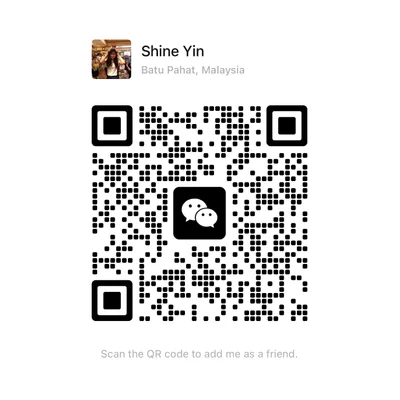
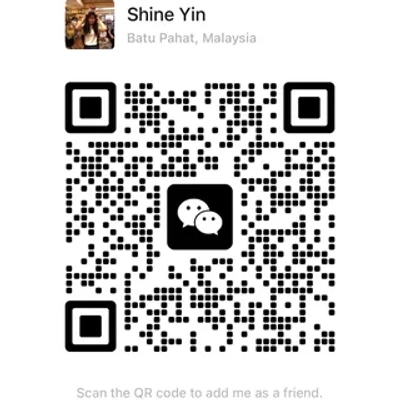
fix: new headshot, professional hero overlay, white final CTA, cropped QR
- Replaced headshot with new Gemini image (watermark cropped), renamed to
  shine-headshot.webp, deleted old shine-headshot-1200x1200.webp
- Hero reverted to teal-tinted dark overlay with dual gradient layers for
  professional depth — desaturated photo with contrast adjustment
- "Ready to help" final CTA section changed from navy-blue to white text
- WeChat QR cropped to remove excess whitespace, label set to title case
- All changes mirrored on Chinese homepage

Made-with: Cursor

diff --git a/src/app/(chinese)/zh/page.tsx b/src/app/(chinese)/zh/page.tsx
@@ -40,32 +40,33 @@ export default function ChineseHomepage() {
             src="/shine_with_schoolkids.png"
             alt="Shine Yin Teoh, speech pathologist, working with children in a school setting"
             fill
-            className="object-cover saturate-[0.85] brightness-[1.05]"
+            className="object-cover saturate-[0.8] brightness-[1.0] contrast-[0.95]"
             priority
           />
-          <div className="absolute inset-0 bg-gradient-to-r from-white/50 via-white/30 to-white/10"></div>
+          <div className="absolute inset-0 bg-gradient-to-r from-[#1A4D5C]/75 via-[#1A4D5C]/45 to-[#1A4D5C]/15"></div>
+          <div className="absolute inset-0 bg-gradient-to-b from-[#0D2B3E]/30 via-transparent to-[#0D2B3E]/20"></div>
         </div>
         
         <div className="container mx-auto px-4 relative z-10">
           <div className="max-w-2xl">
-            <h1 className="text-4xl md:text-5xl lg:text-5xl font-bold text-navy-blue mb-6 leading-[1.15] text-balance drop-shadow-[0_1px_2px_rgba(255,255,255,0.8)]">
+            <h1 className="text-4xl md:text-5xl lg:text-5xl font-bold text-white mb-6 leading-[1.15] text-balance drop-shadow-lg">
               悉尼言语治疗师
             </h1>
-            <p className="text-lg md:text-xl text-charcoal mb-10 leading-relaxed font-medium drop-shadow-[0_1px_1px_rgba(255,255,255,0.6)]">
+            <p className="text-lg md:text-xl text-white/90 mb-10 leading-relaxed font-light drop-shadow-md">
               帮助您或您的孩子自信沟通。个性化言语治疗 — 提供上门、学校或远程服务。提供中英双语服务。服务悉尼内西区及周边地区。
             </p>
             <div className="flex flex-col sm:flex-row items-center sm:items-start gap-4 mb-10">
               <Link href="/contact" className="btn-primary text-center text-lg py-4 px-8 shadow-lg hover:-translate-y-1 transition-all duration-300 tracking-wide">
                 预约免费咨询
               </Link>
-              <Link href="/refer-a-client" className="text-center text-lg py-4 px-8 rounded-full font-bold border-2 border-navy-blue text-navy-blue bg-white/70 backdrop-blur-sm hover:bg-navy-blue hover:text-white shadow-lg hover:-translate-y-1 transition-all duration-300 tracking-wide">
+              <Link href="/refer-a-client" className="text-center text-lg py-4 px-8 rounded-full font-bold border-2 border-white/80 text-white bg-white/15 backdrop-blur-sm hover:bg-white hover:text-navy-blue shadow-lg hover:-translate-y-1 transition-all duration-300 tracking-wide">
                 推荐客户
               </Link>
             </div>
-            <div className="flex flex-wrap gap-x-6 gap-y-3 text-sm font-semibold text-navy-blue/80">
-              <span className="flex items-center gap-2"><span className="w-5 h-5 rounded-full bg-trust-teal/20 flex items-center justify-center text-trust-teal text-xs font-bold">✓</span> 澳洲认证言语治疗师 (CPSP)</span>
-              <span className="flex items-center gap-2"><span className="w-5 h-5 rounded-full bg-trust-teal/20 flex items-center justify-center text-trust-teal text-xs font-bold">✓</span> NDIS 注册服务提供商</span>
-              <span className="flex items-center gap-2"><span className="w-5 h-5 rounded-full bg-trust-teal/20 flex items-center justify-center text-trust-teal text-xs font-bold">✓</span> Medicare 医疗保险提供商</span>
+            <div className="flex flex-wrap gap-x-6 gap-y-3 text-sm font-semibold text-white/85">
+              <span className="flex items-center gap-2"><span className="w-5 h-5 rounded-full bg-white/20 flex items-center justify-center text-white text-xs font-bold">✓</span> 澳洲认证言语治疗师 (CPSP)</span>
+              <span className="flex items-center gap-2"><span className="w-5 h-5 rounded-full bg-white/20 flex items-center justify-center text-white text-xs font-bold">✓</span> NDIS 注册服务提供商</span>
+              <span className="flex items-center gap-2"><span className="w-5 h-5 rounded-full bg-white/20 flex items-center justify-center text-white text-xs font-bold">✓</span> Medicare 医疗保险提供商</span>
             </div>
           </div>
         </div>
@@ -409,7 +410,7 @@ export default function ChineseHomepage() {
             <div className="relative w-72 h-72 md:w-80 md:h-80 lg:w-96 lg:h-96 rounded-full overflow-hidden premium-shadow group">
               <div className="absolute inset-0 bg-navy-blue/5 group-hover:bg-transparent transition-colors duration-500 z-10"></div>
               <Image
-                src="/shine-headshot-1200x1200.webp"
+                src="/shine-headshot.webp"
                 alt="Shine Yin Teoh 的专业头像"
                 fill
                 className="object-cover transition-transform duration-700 group-hover:scale-105"
@@ -495,16 +496,16 @@ export default function ChineseHomepage() {
       <section className="py-24 bg-golden-amber text-white text-center relative overflow-hidden">
[1 lines of base64/hex data omitted]
         <div className="container mx-auto px-4 relative z-10">
-          <h2 className="text-3xl md:text-4xl lg:text-5xl font-bold mb-6 text-navy-blue">准备好帮助您或您的孩子茁壮成长了吗？</h2>
-          <p className="text-xl mb-10 max-w-2xl mx-auto text-navy-blue/80 font-medium">
+          <h2 className="text-3xl md:text-4xl lg:text-5xl font-bold mb-6 text-white">准备好帮助您或您的孩子茁壮成长了吗？</h2>
+          <p className="text-xl mb-10 max-w-2xl mx-auto text-white/85 font-medium">
             预约免费咨询以讨论您的需求 — 无义务，无压力。
           </p>
-          <div className="text-xl font-bold mb-10 flex flex-wrap justify-center gap-8 text-navy-blue">
-            <a href="tel:+61421608819" className="hover:text-white transition-colors flex items-center gap-3">
-              <div className="bg-navy-blue/10 p-2.5 rounded-full flex items-center justify-center"><Phone className="w-5 h-5" /></div> 0421 608 819
+          <div className="text-xl font-bold mb-10 flex flex-wrap justify-center gap-8 text-white">
+            <a href="tel:+61421608819" className="hover:text-white/70 transition-colors flex items-center gap-3">
+              <div className="bg-white/15 p-2.5 rounded-full flex items-center justify-center"><Phone className="w-5 h-5" /></div> 0421 608 819
             </a>
-            <a href="mailto:admin@shineandspeak.com.au" className="hover:text-white transition-colors flex items-center gap-3">
-              <div className="bg-navy-blue/10 p-2.5 rounded-full flex items-center justify-center"><Mail className="w-5 h-5" /></div> admin@shineandspeak.com.au
+            <a href="mailto:admin@shineandspeak.com.au" className="hover:text-white/70 transition-colors flex items-center gap-3">
+              <div className="bg-white/15 p-2.5 rounded-full flex items-center justify-center"><Mail className="w-5 h-5" /></div> admin@shineandspeak.com.au
             </a>
           </div>
           <div className="flex flex-col sm:flex-row justify-center gap-4">

diff --git a/src/app/(english)/page.tsx b/src/app/(english)/page.tsx
@@ -122,18 +122,19 @@ export default function Home() {
             src="/shine_with_schoolkids.png"
             alt="Shine Yin Teoh, speech pathologist, working with children in a school setting"
             fill
-            className="object-cover saturate-[0.85] brightness-[1.05]"
+            className="object-cover saturate-[0.8] brightness-[1.0] contrast-[0.95]"
             priority
           />
-          <div className="absolute inset-0 bg-gradient-to-r from-white/50 via-white/30 to-white/10"></div>
+          <div className="absolute inset-0 bg-gradient-to-r from-[#1A4D5C]/75 via-[#1A4D5C]/45 to-[#1A4D5C]/15"></div>
+          <div className="absolute inset-0 bg-gradient-to-b from-[#0D2B3E]/30 via-transparent to-[#0D2B3E]/20"></div>
         </div>
 
         <div className="container mx-auto px-4 relative z-10">
           <div className="max-w-2xl">
-            <h1 className="text-4xl md:text-5xl lg:text-5xl font-bold text-navy-blue mb-6 leading-[1.15] text-balance drop-shadow-[0_1px_2px_rgba(255,255,255,0.8)]">
+            <h1 className="text-4xl md:text-5xl lg:text-5xl font-bold text-white mb-6 leading-[1.15] text-balance drop-shadow-lg">
               Speech Pathologist in Sydney NSW
             </h1>
-            <p className="text-lg md:text-xl text-charcoal mb-10 leading-relaxed font-medium drop-shadow-[0_1px_1px_rgba(255,255,255,0.6)]">
+            <p className="text-lg md:text-xl text-white/90 mb-10 leading-relaxed font-light drop-shadow-md">
               Personalised speech therapy delivered to your home, school, or online. Available in English and Mandarin. Serving Inner West Sydney and surrounds.
             </p>
             <div className="flex flex-col sm:flex-row items-center sm:items-start gap-4 mb-10">
@@ -141,14 +142,14 @@ export default function Home() {
               <Link href="/contact" className="btn-primary text-center text-lg py-4 px-8 shadow-lg hover:-translate-y-1 transition-all duration-300 tracking-wide">
                 Book a Free Discovery Call
               </Link>
-              <Link href="/refer-a-client" className="text-center text-lg py-4 px-8 rounded-full font-bold border-2 border-navy-blue text-navy-blue bg-white/70 backdrop-blur-sm hover:bg-navy-blue hover:text-white shadow-lg hover:-translate-y-1 transition-all duration-300 tracking-wide">
+              <Link href="/refer-a-client" className="text-center text-lg py-4 px-8 rounded-full font-bold border-2 border-white/80 text-white bg-white/15 backdrop-blur-sm hover:bg-white hover:text-navy-blue shadow-lg hover:-translate-y-1 transition-all duration-300 tracking-wide">
                 Refer a Client
               </Link>
             </div>
-            <div className="flex flex-wrap gap-x-6 gap-y-3 text-sm font-semibold text-navy-blue/80">
-              <span className="flex items-center gap-2"><span className="w-5 h-5 rounded-full bg-trust-teal/20 flex items-center justify-center text-trust-teal text-xs font-bold">✓</span> CPSP Certified</span>
-              <span className="flex items-center gap-2"><span className="w-5 h-5 rounded-full bg-trust-teal/20 flex items-center justify-center text-trust-teal text-xs font-bold">✓</span> NDIS Registered</span>
-              <span className="flex items-center gap-2"><span className="w-5 h-5 rounded-full bg-trust-teal/20 flex items-center justify-center text-trust-teal text-xs font-bold">✓</span> Medicare Provider</span>
+            <div className="flex flex-wrap gap-x-6 gap-y-3 text-sm font-semibold text-white/85">
+              <span className="flex items-center gap-2"><span className="w-5 h-5 rounded-full bg-white/20 flex items-center justify-center text-white text-xs font-bold">✓</span> CPSP Certified</span>
+              <span className="flex items-center gap-2"><span className="w-5 h-5 rounded-full bg-white/20 flex items-center justify-center text-white text-xs font-bold">✓</span> NDIS Registered</span>
+              <span className="flex items-center gap-2"><span className="w-5 h-5 rounded-full bg-white/20 flex items-center justify-center text-white text-xs font-bold">✓</span> Medicare Provider</span>
             </div>
           </div>
         </div>
@@ -471,7 +472,7 @@ export default function Home() {
             <div className="relative w-72 h-72 md:w-80 md:h-80 lg:w-96 lg:h-96 rounded-full overflow-hidden premium-shadow group">
               <div className="absolute inset-0 bg-navy-blue/5 group-hover:bg-transparent transition-colors duration-500 z-10"></div>
               <Image
-                src="/shine-headshot-1200x1200.webp"
+                src="/shine-headshot.webp"
                 alt="Shine Yin Teoh, Certified Practising Speech Pathologist"
                 fill
                 className="object-cover transition-transform duration-700 group-hover:scale-105"
@@ -617,16 +618,16 @@ export default function Home() {
       <section className="py-24 bg-golden-amber text-white text-center relative overflow-hidden">
[1 lines of base64/hex data omitted]
         <div className="container mx-auto px-4 relative z-10">
-          <h2 className="text-3xl md:text-4xl lg:text-5xl font-bold mb-6 text-navy-blue">Ready to help you or your child thrive?</h2>
-          <p className="text-xl mb-10 max-w-2xl mx-auto text-navy-blue/80 font-medium">
+          <h2 className="text-3xl md:text-4xl lg:text-5xl font-bold mb-6 text-white">Ready to help you or your child thrive?</h2>
+          <p className="text-xl mb-10 max-w-2xl mx-auto text-white/85 font-medium">
             Book a free discovery call to talk about your needs — no obligation, no pressure.
           </p>
-          <div className="text-xl font-bold mb-10 flex flex-wrap justify-center gap-8 text-navy-blue">
-            <a href="tel:+61421608819" className="hover:text-white transition-colors flex items-center gap-3">
-              <div className="bg-navy-blue/10 p-2.5 rounded-full flex items-center justify-center"><Phone className="w-5 h-5" /></div> 0421 608 819
+          <div className="text-xl font-bold mb-10 flex flex-wrap justify-center gap-8 text-white">
+            <a href="tel:+61421608819" className="hover:text-white/70 transition-colors flex items-center gap-3">
+              <div className="bg-white/15 p-2.5 rounded-full flex items-center justify-center"><Phone className="w-5 h-5" /></div> 0421 608 819
             </a>
-            <a href="mailto:admin@shineandspeak.com.au" className="hover:text-white transition-colors flex items-center gap-3">
-              <div className="bg-navy-blue/10 p-2.5 rounded-full flex items-center justify-center"><Mail className="w-5 h-5" /></div> admin@shineandspeak.com.au
+            <a href="mailto:admin@shineandspeak.com.au" className="hover:text-white/70 transition-colors flex items-center gap-3">
+              <div className="bg-white/15 p-2.5 rounded-full flex items-center justify-center"><Mail className="w-5 h-5" /></div> admin@shineandspeak.com.au
             </a>
           </div>
           <div className="flex flex-col sm:flex-row justify-center gap-4">

diff --git a/src/app/(english)/about/page.tsx b/src/app/(english)/about/page.tsx
@@ -62,7 +62,7 @@ export default function AboutPage() {
             {/* Mobile headshot */}
             <div className="bg-gray-200 aspect-square rounded-2xl flex items-center justify-center text-gray-500 text-center p-8 shadow-xl mb-8 md:hidden">
               {/* REPLACE: Professional headshot of Shine Yin Teoh, warm and approachable */}
-              <img src="/shine-headshot-1200x1200.webp" alt="Shine Yin Teoh, Certified Practising Speech Pathologist" className="absolute inset-0 w-full h-full object-cover" />
+              <img src="/shine-headshot.webp" alt="Shine Yin Teoh, Certified Practising Speech Pathologist" className="absolute inset-0 w-full h-full object-cover" />
             </div>
 
             <h2 className="text-3xl font-bold text-navy-blue mb-4">About me</h2>
@@ -96,7 +96,7 @@ export default function AboutPage() {
           <div className="hidden md:block">
             <div className="bg-gray-200 aspect-square rounded-2xl flex items-center justify-center text-gray-500 text-center p-8 shadow-xl sticky top-24">
               {/* REPLACE: Professional headshot of Shine Yin Teoh, warm and approachable */}
-              <img src="/shine-headshot-1200x1200.webp" alt="Shine Yin Teoh, Certified Practising Speech Pathologist" className="absolute inset-0 w-full h-full object-cover" />
+              <img src="/shine-headshot.webp" alt="Shine Yin Teoh, Certified Practising Speech Pathologist" className="absolute inset-0 w-full h-full object-cover" />
             </div>
           </div>
         </div>

diff --git a/src/components/Footer.tsx b/src/components/Footer.tsx
@@ -117,7 +117,7 @@ export default function Footer() {
                 className="object-contain p-1"
               />
             </div>
-            <div className="text-center mt-2 text-xs text-blue-100/80 font-medium tracking-wide uppercase">Scan to Add on WeChat</div>
+            <div className="text-center mt-2 text-xs text-blue-100/80 font-medium tracking-wide">Scan to Add on WeChat</div>
           </div>
 
           <div className="mt-8 text-xs text-blue-100/80 space-y-2 font-medium tracking-wide uppercase">
